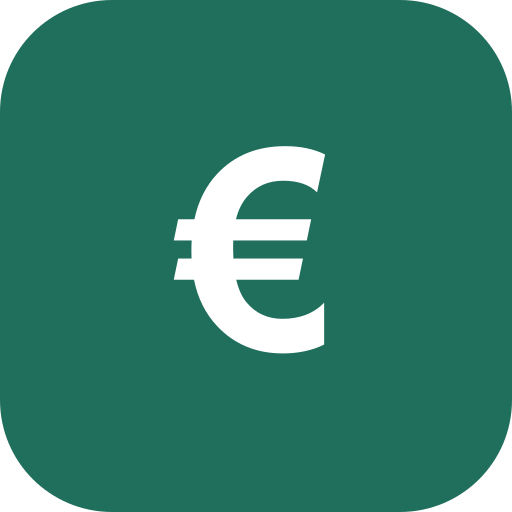
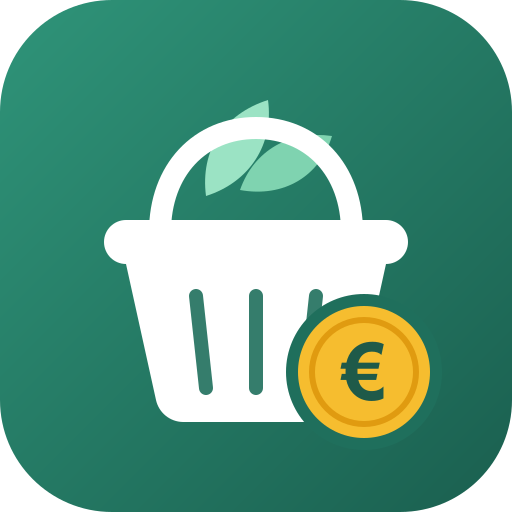
Nouvelle icône d'application (panier et pièce en euro)

diff --git a/public/sw.js b/public/sw.js
@@ -1,6 +1,6 @@
 // Service worker : rend l'application installable et permet de l'ouvrir hors connexion.
 // Les données (Supabase) ne sont jamais mises en cache : elles viennent toujours du réseau.
-const CACHE = 'comptes-v1'
+const CACHE = 'comptes-v2'
 
 self.addEventListener('install', (event) => {
   event.waitUntil(caches.open(CACHE).then((c) => c.addAll(['./', './index.html', './manifest.webmanifest', './icon-192.png'])))
